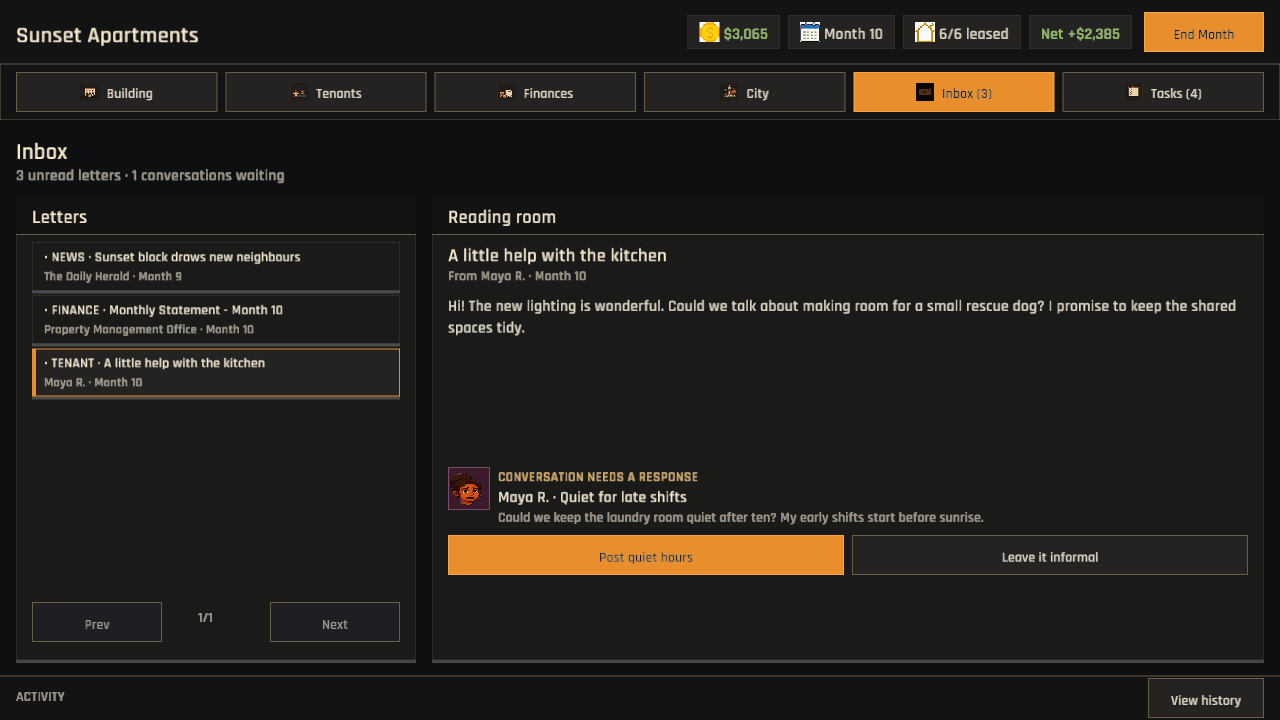
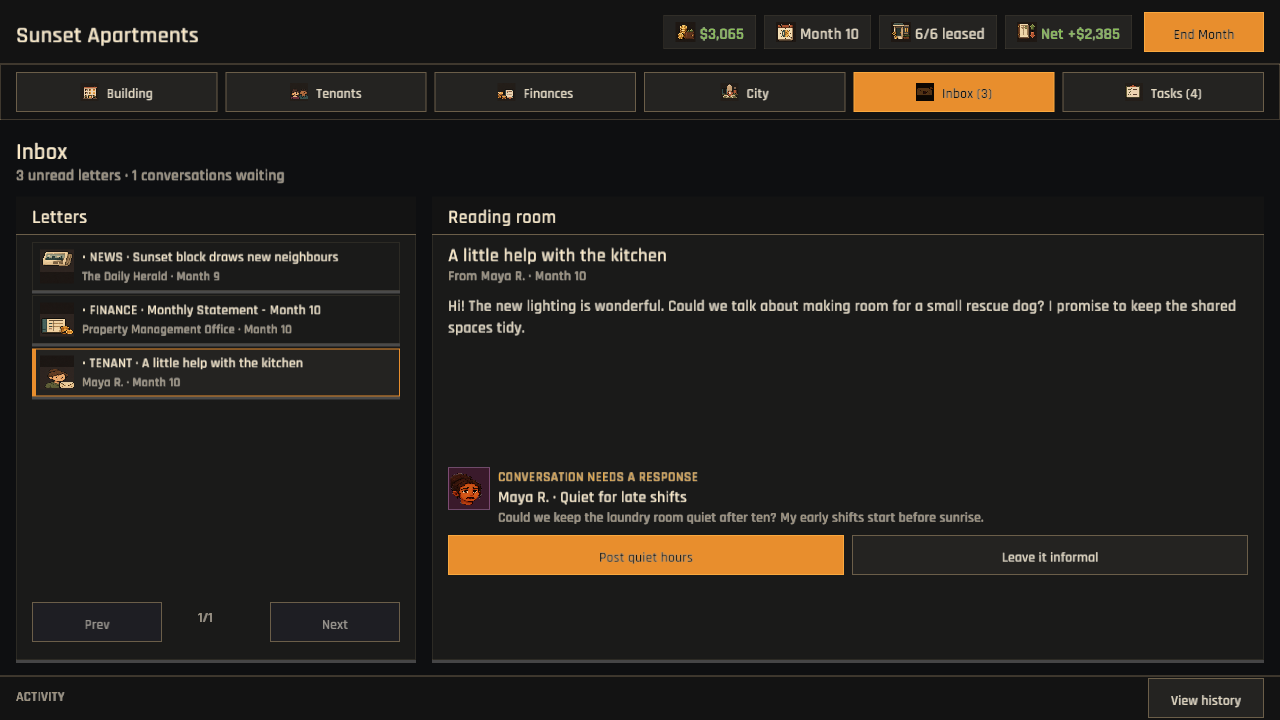
Every letter now arrives beneath its own wax seal (mail category atlas)
Add a generated 4x2 seal atlas for tenant, city, finance, vendor, news, personal, official, and unread mail. Place the category art in each list row, dim read correspondence, and preserve the unread dot, uppercase type label, subject, sender, month, reading-room body, and conversation response controls.

Keep a text-only fallback when the atlas is unavailable and prove all seven MailType variants map to unique cells.

Verified with 139 passing tests (1 ignored), desktop and 640x480 inbox captures, formatting, JSON and Rust line-count checks, and publish.ps1 for Windows, WebGL, and preview deployment.

diff --git a/src/ui/workspace_inbox.rs b/src/ui/workspace_inbox.rs
@@ -47,7 +47,7 @@ pub fn draw_inbox_view(state: &GameplayState, assets: &AssetManager) -> Option<U
     let selected_id = state
         .selected_mail_id
         .or_else(|| state.mailbox.items.last().map(|item| item.id));
-    if let Some(action) = draw_mail_list(state, list, selected_id) {
+    if let Some(action) = draw_mail_list(state, list, selected_id, assets) {
         return Some(action);
     }
     let detail = draw_panel(detail_rect, "Reading room");
@@ -84,7 +84,12 @@ fn draw_title(rect: Rect, subtitle: &str) -> f32 {
     rect.y + scale::TITLE + line_height(scale::BODY) + space::LG
 }
 
-fn draw_mail_list(state: &GameplayState, list: Rect, selected_id: Option<u32>) -> Option<UiAction> {
+fn draw_mail_list(
+    state: &GameplayState,
+    list: Rect,
+    selected_id: Option<u32>,
+    assets: &AssetManager,
+) -> Option<UiAction> {
     let mut y = list.y;
     let page_size = (((list.h - 38.0) / 53.0).floor() as usize).max(1);
     let page_count = state.mailbox.items.len().max(1).div_ceil(page_size);
@@ -98,6 +103,14 @@ fn draw_mail_list(state: &GameplayState, list: Rect, selected_id: Option<u32>) -
     {
         let row = Rect::new(list.x, y, list.w, 48.0);
         draw_card(row, selected_id == Some(item.id));
+        let icon_rect = Rect::new(row.x + space::SM, row.y + 7.0, 34.0, 34.0);
+        let has_icon = draw_mail_icon(&item.mail_type, icon_rect, item.read, assets);
+        let text_x = if has_icon {
+            icon_rect.right() + space::SM
+        } else {
+            row.x + space::MD
+        };
+        let text_w = row.right() - space::MD - text_x;
         let marker = if item.read { "" } else { "• " };
         let subject = truncate_text_to_width(
             &format!(
@@ -106,12 +119,12 @@ fn draw_mail_list(state: &GameplayState, list: Rect, selected_id: Option<u32>) -
                 mail_type_label(&item.mail_type),
                 item.subject
             ),
-            row.w - space::MD * 2.0,
+            text_w,
             scale::LABEL,
         );
         draw_ui_text(
             &subject,
-            row.x + space::MD,
+            text_x,
             row.y + 19.0,
             scale::LABEL,
             if item.read {
@@ -123,10 +136,10 @@ fn draw_mail_list(state: &GameplayState, list: Rect, selected_id: Option<u32>) -
         draw_ui_text(
             &truncate_text_to_width(
                 &format!("{} · Month {}", item.sender, item.month_received),
-                row.w - space::MD * 2.0,
+                text_w,
                 scale::CAPTION,
             ),
-            row.x + space::MD,
+            text_x,
             row.y + 38.0,
             scale::CAPTION,
             color::TEXT_DIM(),
@@ -303,3 +316,50 @@ fn mail_type_label(mail_type: &MailType) -> &'static str {
         MailType::Official => "OFFICIAL",
     }
 }
+
+fn mail_icon_tile(mail_type: &MailType) -> (f32, f32) {
+    match mail_type {
+        MailType::TenantLetter { .. } => (0.0, 0.0),
+        MailType::CityNotice => (1.0, 0.0),
+        MailType::Financial => (2.0, 0.0),
+        MailType::Advertisement => (3.0, 0.0),
+        MailType::News => (0.0, 1.0),
+        MailType::Personal => (1.0, 1.0),
+        MailType::Official => (2.0, 1.0),
+    }
+}
+
+fn draw_mail_icon(mail_type: &MailType, rect: Rect, read: bool, assets: &AssetManager) -> bool {
+    let Some(texture) = assets.get_texture("mail_icons") else {
+        return false;
+    };
+    let (column, row) = mail_icon_tile(mail_type);
+    let tile_w = texture.width() * 0.25;
+    let tile_h = texture.height() * 0.5;
+    let inset_x = tile_w * 0.06;
+    let inset_y = tile_h * 0.06;
+    draw_texture_ex(
+        texture,
+        rect.x,
+        rect.y,
+        if read {
+            Color::new(0.62, 0.6, 0.56, 0.78)
+        } else {
+            WHITE
+        },
+        DrawTextureParams {
+            dest_size: Some(vec2(rect.w, rect.h)),
+            source: Some(Rect::new(
+                column * tile_w + inset_x,
+                row * tile_h + inset_y,
+                tile_w - inset_x * 2.0,
+                tile_h - inset_y * 2.0,
+            )),
+            ..Default::default()
+        },
+    );
+    true
+}
+
+#[cfg(test)]
+mod tests;

diff --git a/src/assets.rs b/src/assets.rs
@@ -70,6 +70,7 @@ impl AssetManager {
             "upgrade_icons",
             "status_icons",
             "mission_icons",
+            "mail_icons",
             "icon_money",
             "icon_repair",
             "icon_upgrade",
@@ -138,6 +139,7 @@ impl AssetManager {
                             | "upgrade_icons"
                             | "status_icons"
                             | "mission_icons"
+                            | "mail_icons"
                     ) {
                     FilterMode::Linear
                 } else {

diff --git a/src/ui/workspace_inbox/tests.rs b/src/ui/workspace_inbox/tests.rs
@@ -1,0 +1,18 @@
+use super::*;
+
+#[test]
+fn every_mail_type_owns_a_unique_atlas_cell() {
+    let types = [
+        MailType::TenantLetter { tenant_id: 1 },
+        MailType::CityNotice,
+        MailType::Financial,
+        MailType::Advertisement,
+        MailType::News,
+        MailType::Personal,
+        MailType::Official,
+    ];
+    let mut cells = types.map(|mail_type| mail_icon_tile(&mail_type)).to_vec();
+    cells.sort_by(|left, right| left.partial_cmp(right).unwrap());
+    cells.dedup();
+    assert_eq!(cells.len(), 7);
+}
